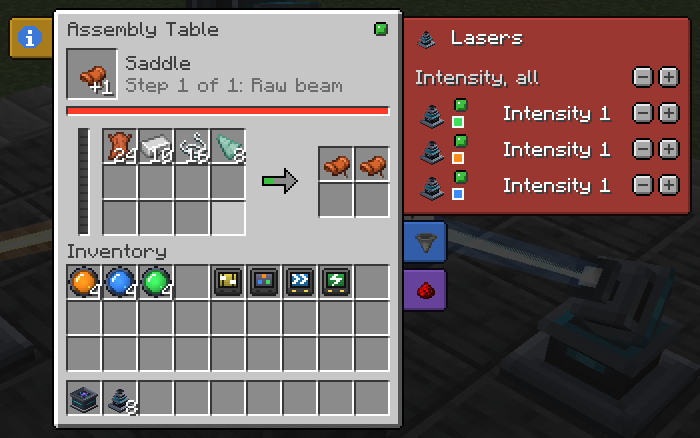
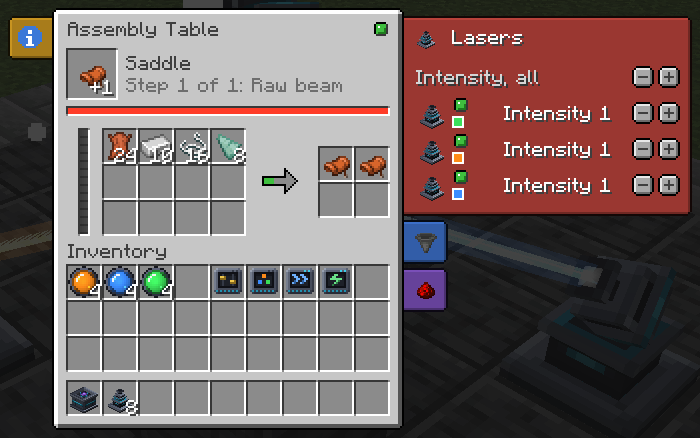
Paint the augments as AE2 modules, and fit the laser's outline
The augments are hand-painted now, in the blocks' gunmetal: a dark
screen carrying the augment's symbol in its own glowing colour, cyan
contacts along the foot, the tier as cyan lights on the top edge. The
generator keeps only the lenses and the laser's glow.

A laser's outline and hitbox were a full cube round a laser that fills a
quarter of it; they now follow the base and the head's reach, turned
with the laser.

diff --git a/tools/GenerateTextures.java b/tools/GenerateTextures.java
@@ -2,17 +2,14 @@ import javax.imageio.ImageIO;
 import java.awt.image.BufferedImage;
 import java.io.File;
 import java.io.IOException;
-import java.util.Map;
 
 /**
- * Generates the item textures and the laser's glow, in Portable Beacons' way: drawn by code, so a
- * colour or a proportion is changed here and every texture follows.
+ * Generates the lenses and the laser's glow: a lens is a disc of glass in its beam's colour, which
+ * code shades more evenly than a hand could.
  *
- * <p>Not the blocks: their faces are painted by hand, pixel by pixel, and the PNGs are the source.
- * Computed panels and discs looked soft and flat beside AE2's and Create's machines.
- *
- * <p>The augments are drawn in FactoryIO's module family - a dark casing round a screen - so an
- * augment reads as a part you fit into something.
+ * <p>Not the blocks nor the augments: those are painted by hand, pixel by pixel, in AE2's spirit,
+ * and the PNGs are the source. Computed panels and screens looked soft and flat beside AE2's and
+ * Create's machines.
  *
  * <pre>java tools/GenerateTextures.java</pre>
  */
@@ -50,7 +47,7 @@ public final class GenerateTextures {
     // ------------------------------------------------------------------ items
 
     /*
-     * One texture per item, its colour baked in: each lens and augment is its own item, so it has
+     * One texture per lens, its colour baked in: each lens is its own item, so it has
      * its own texture, and an item a pack adds brings its own. The colours are the datapack
      * entries' - kept in step by hand, they change rarely.
      */
@@ -59,14 +56,6 @@ public final class GenerateTextures {
         lens("cut_lens", 0xFF8C1A);
         lens("weld_lens", 0x3C8CFF);
         lens("engrave_lens", 0x3CE05A);
-
-        augment("regulator_augment", 0xE8D44A, 0, "regulator");
-        // Darker than the others: the three lens colours sit on it, and a pale screen washed them out.
-        augment("barrel_augment", 0x6E6E8C, 0, "barrel");
-        augment("range_augment_1", 0x4AC8E8, 1, "range");
-        augment("range_augment_2", 0x2A8CD8, 2, "range");
-        augment("efficiency_augment_1", 0x6AD86A, 1, "efficiency");
-        augment("efficiency_augment_2", 0x2EA84A, 2, "efficiency");
     }
 
     /**
@@ -95,76 +84,6 @@ public final class GenerateTextures {
         for (int[] p : new int[][]{{4, 7}, {4, 6}, {5, 5}, {6, 4}, {7, 4}}) set(image, p[0], p[1], shade(0xFFFFFF, 0.97));
         set(image, 5, 6, shade(colour, 1.6));
         set(image, 10, 10, shade(colour, 1.5));
-        write("item/" + name, image);
-    }
-
-    private static final String[] CASING = {
-            "................",
-            "..kkkkkkkkkkkk..",
-            ".kLLLLLLLLLLLLk.",
-            ".kLKKKKKKKKKKDk.",
-            ".kLK........KDk.",
-            ".kLK........KDk.",
-            ".kLK........KDk.",
-            ".kLK........KDk.",
-            ".kLK........KDk.",
-            ".kLK........KDk.",
-            ".kLKKKKKKKKKKDk.",
-            ".kDDDDDDDDDDDDk.",
-            ".kDD11DDDD22DDk.",
-            ".kSSSSSSSSSSSSk.",
-            "..kkkkkkkkkkkk..",
-            "................"};
-
-    /**
-     * 8x6 glyphs on the screen: shape carries the meaning, so two close colours stay apart. {@code w}
-     * is white; {@code o}, {@code b}, {@code g} are the three lenses' own colours; see {@link #GLYPH_COLOURS}.
-     */
-    private static final Map<String, String[]> GLYPHS = Map.of(
-            // Two mixer sliders at different settings: it sets its own intensity. The gauge it
-            // replaced read as a scribble at 16 pixels.
-            "regulator", new String[]{".d....d.", "www...d.", "www...d.", ".d...www", ".d...www", ".d....d."},
-            // The three lenses, in their colours, as a revolver's chambers: it carries more lenses.
-            "barrel", new String[]{"...oo...", "...oo...", "........", ".bb..gg.", ".bb..gg.", "........"},
-            // Double chevron: reaches further.
-            "range", new String[]{"ww..ww..", ".ww..ww.", "..ww..ww", ".ww..ww.", "ww..ww..", "........"},
-            // A lightning bolt: the energy it saves. The arrow down it replaced said "less" of nothing.
-            "efficiency", new String[]{"...ww...", "..ww....", ".wwwwww.", "....ww..", "...ww...", "..w....."});
-
-    /** {@code d} is a slider's dark track, under its white knob. */
-    private static final Map<Character, Integer> GLYPH_COLOURS = Map.of(
-            'w', 0xFFFFFF, 'd', 0x2A2614, 'o', 0xFF8C1A, 'b', 0x3C8CFF, 'g', 0x3CE05A);
-
-    /**
-     * FactoryIO's module: a dark casing round a screen in the augment's colour, lit from the top,
-     * a white glyph on it, and tier pips along the foot - lit for each tier, so Range I and II differ
-     * by more than a shade. The screen is the colour's mid-tones: a full colour drowned the glyph.
-     */
-    private static void augment(String name, int colour, int tier, String glyph) throws IOException {
-        BufferedImage image = blank();
-        for (int y = 0; y < 16; y++) {
-            for (int x = 0; x < 16; x++) {
-                int rgb = switch (CASING[y].charAt(x)) {
-                    case 'k' -> 0x1B1B1B;
-                    case 'L' -> 0x6A6A6A;
-                    case 'D' -> 0x3E3E3E;
-                    case 'S' -> 0x2A2A2A;
-                    case 'K' -> 0x101010;
-                    case '1' -> tier >= 1 ? 0xF7D44A : 0x262626;
-                    case '2' -> tier >= 2 ? 0xF7D44A : 0x262626;
-                    default -> -1;
-                };
-                if (rgb >= 0) set(image, x, y, rgb);
-            }
-        }
-        double[] rows = {0.71, 0.63, 0.59, 0.55, 0.51, 0.47};
-        String[] art = GLYPHS.get(glyph);
-        for (int y = 0; y < rows.length; y++) {
-            for (int x = 0; x < 8; x++) {
-                Integer ink = GLYPH_COLOURS.get(art[y].charAt(x));
-                set(image, 4 + x, 4 + y, ink != null ? ink : shade(colour, rows[y] * 1.4));
-            }
-        }
         write("item/" + name, image);
     }
 

diff --git a/src/main/java/dev/drimoz/laserassembly/content/laser/LaserBlock.java b/src/main/java/dev/drimoz/laserassembly/content/laser/LaserBlock.java
@@ -20,14 +20,36 @@ import net.minecraft.world.level.block.state.BlockState;
 import net.minecraft.world.level.block.state.StateDefinition;
 import net.minecraft.world.level.block.state.properties.BlockStateProperties;
 import net.minecraft.world.level.block.state.properties.DirectionProperty;
+import net.minecraft.world.level.BlockGetter;
 import net.minecraft.world.phys.BlockHitResult;
+import net.minecraft.world.phys.shapes.CollisionContext;
+import net.minecraft.world.phys.shapes.VoxelShape;
 import org.jetbrains.annotations.Nullable;
+
+import java.util.EnumMap;
+import java.util.Map;
 
 public class LaserBlock extends BaseEntityBlock {
 
     public static final MapCodec<LaserBlock> CODEC = simpleCodec(LaserBlock::new);
     /** Where it fires: away from the face it was placed on. */
     public static final DirectionProperty FACING = BlockStateProperties.FACING;
+    /**
+     * The base and the head's reach, one pixel in from the sides, by where the laser fires: a full
+     * cube's outline floated round a laser that fills a quarter of it.
+     */
+    private static final Map<Direction, VoxelShape> SHAPES = new EnumMap<>(Map.of(
+            Direction.UP, Block.box(1, 0, 1, 15, 15, 15),
+            Direction.DOWN, Block.box(1, 1, 1, 15, 16, 15),
+            Direction.NORTH, Block.box(1, 1, 1, 15, 15, 16),
+            Direction.SOUTH, Block.box(1, 1, 0, 15, 15, 15),
+            Direction.WEST, Block.box(1, 1, 1, 16, 15, 15),
+            Direction.EAST, Block.box(0, 1, 1, 15, 15, 15)));
+
+    @Override
+    protected VoxelShape getShape(BlockState state, BlockGetter level, BlockPos pos, CollisionContext context) {
+        return SHAPES.get(state.getValue(FACING));
+    }
 
     public LaserBlock(Properties properties) {
         super(properties);

diff --git a/CHANGELOG.md b/CHANGELOG.md
@@ -16,8 +16,10 @@ Versions follow `{mod version}+{game version}`.
   and each recipe it disables is named once, instead of a warning on every inventory change.
 
 ### Changed
-- Redrawn lens and augment icons: lenses look like glass in a ring, the Regulator shows sliders,
-  the Barrel its three lenses, Efficiency a lightning bolt, and the tier lights are easier to see.
+- Redrawn icons: lenses look like glass in a ring; augments are modules with a glowing symbol on
+  a dark screen - sliders for the Regulator, the three lenses for the Barrel, chevrons for Range,
+  a lightning bolt for Efficiency - and their tier as cyan lights.
+- A laser's outline and hitbox fit the laser, not the whole block.
 - New look for the blocks, in AE2's spirit and hand-painted: the table is a low machine, 12
   pixels high, with a cyan energy band and a fluix crystal sunk into its top, where the beams now
   land; the laser stands on a plinth, a turret and a lit collar. The logo and store art follow.
